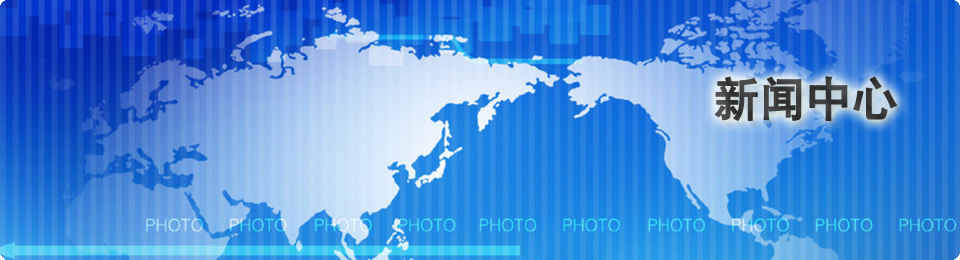
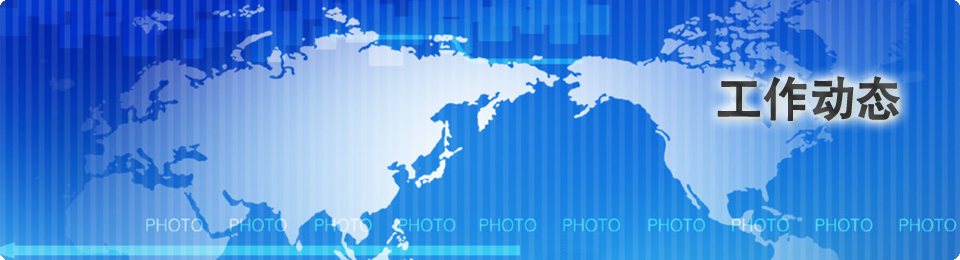
修改了页面
增加了图片

Changed region(s): [[0.7188, 0.2769, 0.9688, 0.4923]]

diff --git a/index.html b/index.html
@@ -29,7 +29,7 @@
 						<li class="line">|</li>
 			<li><a href="http://localhost/gyygs/index.php?m=content&c=index&a=lists&catid=6"><span>机构简介</span></a></li>
 						<li class="line">|</li>
-			<li><a href="http://localhost/gyygs/index.php?m=content&c=index&a=lists&catid=7"><span>新闻中心</span></a></li>
+			<li><a href="http://localhost/gyygs/index.php?m=content&c=index&a=lists&catid=7"><span>工作动态</span></a></li>
 						<li class="line">|</li>
 			<li><a href="http://localhost/gyygs/index.php?m=content&c=index&a=lists&catid=9"><span>服务平台</span></a></li>
 						<li class="line">|</li>
@@ -39,7 +39,7 @@
 						<li class="line">|</li>
 			<li><a href="http://localhost/gyygs/index.php?m=content&c=index&a=lists&catid=12"><span>业务板块</span></a></li>
 						<li class="line">|</li>
-			<li><a href="http://localhost/gyygs/index.php?m=content&c=index&a=lists&catid=13"><span>招贤纳士</span></a></li>
+			<li><a href="http://localhost/gyygs/index.php?m=content&c=index&a=lists&catid=37"><span>政策文件</span></a></li>
 						<li class="line">|</li>
 			<li><a href="http://localhost/gyygs/index.php?m=content&c=index&a=lists&catid=14"><span>联系我们</span></a></li>
 			            </ul>
@@ -54,14 +54,14 @@
 	<div class="col-left">
     	<div class="news-hot">
         	<div class="content">
-        	        	                 <h4 class="blue"><a href="http://localhost/gyygs/index.php?m=content&c=index&a=show&catid=15&id=4" title="北航先进工业产业研究院有限">北航先进工业产业研究院有</a></h4>
-                <p><img src="http://localhost/gyygs/uploadfile/2013/0421/thumb_90_60_20130421114608683.jpg" width="90" height="60"/>北航先进工业产业研究院有限公司独立运行北航先进工业产业研究院有限公司独...</p>
+        	        	                 <h4 class="blue"><a href="http://localhost/gyygs/index.php?m=content&c=index&a=show&catid=7&id=11" title="北京北航工作动态工作动态">北京北航工作动态工作动态</a></h4>
+                <p><img src="http://localhost/gyygs/uploadfile/2013/0503/thumb_90_60_20130503114903243.jpg" width="90" height="60"/>工作动态工作动态工作动态工作动态工作动态工作动态工作动态工作动态工作动态工作动态工作动态工作动态工作动态...</p>
                 <div class="bk20 hr"><hr /></div>
-                               <h4 class="blue"><a href="http://localhost/gyygs/index.php?m=content&c=index&a=show&catid=15&id=3" title="北航先进工业产业研究院有限公司独">北航先进工业产业研究院有</a></h4>
-                <p>北航先进工业产业研究院有限公司独立运行北航先进工业产业研究院有限公司独...</p>
+                               <h4 class="blue"><a href="" title="北航先进工业产业研究院有限">北航先进工业产业研究院有</a></h4>
+                <p>北航先进工业产业研究院有限公司独立运行北航先进工业产业研...</p>
                 <div class="bk20 hr"><hr /></div>
-                               <h4 class="blue"><a href="http://localhost/gyygs/index.php?m=content&c=index&a=show&catid=16&id=2" title="北航先进工业产业研究院有限公司独立运行">北航先进工业产业研究院有</a></h4>
-                <p>北航先进工业产业研究院有限公司独立运行</p>
+                               <h4 class="blue"><a href="" title="北航先进工业产业研究院有限公司独">北航先进工业产业研究院有</a></h4>
+                <p>北航先进工业产业研究院有限公司独立运行北航先进工业产业研...</p>
                 <div class="bk20 hr"><hr /></div>
                  
                 
@@ -71,63 +71,39 @@
             <div class="FocusPic">
                         	<div class="content" id="main-slide">
                     <div class="changeDiv">  
-                                            <a href="http://localhost/gyygs/index.php?m=content&c=index&a=show&catid=15&id=4" title="北航先进工业产业..."><img src="http://localhost/gyygs/uploadfile/2013/0421/20130421114608683.jpg" alt="北航先进工业产业研究院有限" width="310" height="260" /></a>
-                                            <a href="http://localhost/gyygs/index.php?m=content&c=index&a=show&catid=15&id=3" title="北航先进工业产业..."><img src="http://localhost/gyygs/uploadfile/2013/0421/thumb_310_260_20130421114538703.jpg" alt="北航先进工业产业研究院有限公司独" width="310" height="260" /></a>
-                                            <a href="http://localhost/gyygs/index.php?m=content&c=index&a=show&catid=16&id=2" title="北航先进工业产业..."><img src="http://localhost/gyygs/uploadfile/2013/0421/thumb_310_260_20130421110020639.jpg" alt="北航先进工业产业研究院有限公司独立运行" width="310" height="260" /></a>
-                                            <a href="http://localhost/gyygs/index.php?m=content&c=index&a=show&catid=15&id=1" title="北汽与北航开展通..."><img src="http://localhost/gyygs/uploadfile/2013/0421/thumb_310_260_20130421105821844.jpg" alt="北汽与北航开展通航领域合作" width="310" height="260" /></a>
+                                            <a href="http://localhost/gyygs/index.php?m=content&c=index&a=show&catid=7&id=11" title="北京北航工作动态..."><img src="http://localhost/gyygs/uploadfile/2013/0503/thumb_310_260_20130503114903243.jpg" alt="北京北航工作动态工作动态" width="310" height="260" /></a>
+                                            <a href="" title="北航先进工业产业..."><img src="http://localhost/gyygs/uploadfile/2013/0421/20130421114608683.jpg" alt="北航先进工业产业研究院有限" width="310" height="260" /></a>
+                                            <a href="" title="北航先进工业产业..."><img src="http://localhost/gyygs/uploadfile/2013/0421/thumb_310_260_20130421114538703.jpg" alt="北航先进工业产业研究院有限公司独" width="310" height="260" /></a>
+                                            <a href="" title="北航先进工业产业..."><img src="http://localhost/gyygs/uploadfile/2013/0421/thumb_310_260_20130421110020639.jpg" alt="北航先进工业产业研究院有限公司独立运行" width="310" height="260" /></a>
+                                            <a href="" title="北汽与北航开展通..."><img src="http://localhost/gyygs/uploadfile/2013/0421/thumb_310_260_20130421105821844.jpg" alt="北汽与北航开展通航领域合作" width="310" height="260" /></a>
                                         </div>
                 </div>
                         </div>
             <div class="bk10"></div>
         </div>
         <div class="box">
-        		<h5>公司介绍</h5>
+        		<h5>机构简介</h5>
             <div style="margin:10px;">
                 <span style="font-weight:bold;">公司简介：</span>
                     北京北航先进工业技术研究院有限公司成立于2010年11月，注册资本金5000万元，是北京航空航天大学委托北京北航资产经营有限公司独资设立的全资子公司。
                 <br><span style="font-weight:bold;">核心优势：</span>
                     北京北航先进工业技术研究院有限公司以北航为主体、企业化运作，与北航民口科技管理部门、北航国家大学科技园三位一体支撑北京北航先进工业技术研究院的建设运行。北京北航先进工业技术研究院有限公司是北京北航先进工业技术研究院建设运行的企业实体，集合了北京航空航天大学的人才、科技、成果资源和北航国家大学科技园产学研合作基地、密云产业化基地以及公共服务平台资源，用专职专业的服务团队、提供优势的管理服务。
             </div>
+            <div class="intro_list">
+                <div class="intro_pic">
+                    <img src="http://localhost/gyygs/statics/images/intro_pic.jpg" width="200" height="130"/>
+                </div>
+                <div class="intro_pic">
+                    <img src="http://localhost/gyygs/statics/images/intro_pic.jpg" width="200" height="130"/>
+                </div>
+                <div class="intro_pic">
+                    <img src="http://localhost/gyygs/statics/images/intro_pic.jpg" width="200" height="130"/>
+                </div>
+            </div>
         </div>
         <div class="bk10"></div>
 		
-		                <div class="box cat-area" style=" margin-right:10px">
-        		<h5 class="title-1">工作动态<a href="http://localhost/gyygs/index.php?m=content&c=index&a=lists&catid=15" class="more">更多>></a></h5>
-             <div class="content">
-                                       	<p>
-             		<img src="http://localhost/gyygs/uploadfile/2013/0421/thumb_90_0_20130421114608683.jpg" width="90" height="60"/>
-                    <strong><a href="http://localhost/gyygs/index.php?m=content&c=index&a=show&catid=15&id=4" target="_blank" title="北航先进工业产业研究院有限" style="" >北航先进工业产...</a></strong><br />北航先进工业产业研究院有限公司独立运行北航先进工业产业研究院有...                </p>
-                                            
-                <div class="bk15 hr"></div>
-                
-                <ul class="list lh24 f14">
-                                	<li><span class="rt">2013-04-21</span>·<a href="http://localhost/gyygs/index.php?m=content&c=index&a=show&catid=15&id=6" target="_blank" title="北航先进工业产业研究院有2" style="" >北航先进工业产业研究院有2</a></li>
-                                	<li><span class="rt">2013-04-21</span>·<a href="http://localhost/gyygs/index.php?m=content&c=index&a=show&catid=15&id=5" target="_blank" title="北航先进工业产业研究院有" style="" >北航先进工业产业研究院有</a></li>
-                                	<li><span class="rt">2013-04-21</span>·<a href="http://localhost/gyygs/index.php?m=content&c=index&a=show&catid=15&id=4" target="_blank" title="北航先进工业产业研究院有限" style="" >北航先进工业产业研究院有限</a></li>
-                                	<li><span class="rt">2013-04-21</span>·<a href="http://localhost/gyygs/index.php?m=content&c=index&a=show&catid=15&id=3" target="_blank" title="北航先进工业产业研究院有限公司独" style="" >北航先进工业产业研究院...</a></li>
-                                	<li><span class="rt">2013-04-21</span>·<a href="http://localhost/gyygs/index.php?m=content&c=index&a=show&catid=15&id=1" target="_blank" title="北汽与北航开展通航领域合作" style="" >北汽与北航开展通航领域合作</a></li>
-                                </ul>
-                            </div>
-        </div>
-        		                <div class="box cat-area" >
-        		<h5 class="title-1">行业资讯<a href="http://localhost/gyygs/index.php?m=content&c=index&a=lists&catid=16" class="more">更多>></a></h5>
-             <div class="content">
-                                       	<p>
-             		<img src="http://localhost/gyygs/uploadfile/2013/0421/thumb_90_0_20130421110020639.jpg" width="90" height="60"/>
-                    <strong><a href="http://localhost/gyygs/index.php?m=content&c=index&a=show&catid=16&id=2" target="_blank" title="北航先进工业产业研究院有限公司独立运行" style="" >北航先进工业产...</a></strong><br />北航先进工业产业研究院有限公司独立运行                </p>
-                                            
-                <div class="bk15 hr"></div>
-                
-                <ul class="list lh24 f14">
-                                	<li><span class="rt">2013-04-21</span>·<a href="http://localhost/gyygs/index.php?m=content&c=index&a=show&catid=16&id=10" target="_blank" title="北航先进工业产业研究院有" style="" >北航先进工业产业研究院有</a></li>
-                                	<li><span class="rt">2013-04-21</span>·<a href="http://localhost/gyygs/index.php?m=content&c=index&a=show&catid=16&id=9" target="_blank" title="北航先进工业产业研究院有" style="" >北航先进工业产业研究院有</a></li>
-                                	<li><span class="rt">2013-04-21</span>·<a href="http://localhost/gyygs/index.php?m=content&c=index&a=show&catid=16&id=8" target="_blank" title="北航先进工业产业研究院有" style="" >北航先进工业产业研究院有</a></li>
-                                	<li><span class="rt">2013-04-21</span>·<a href="http://localhost/gyygs/index.php?m=content&c=index&a=show&catid=16&id=7" target="_blank" title="北航先进工业产业研究院有" style="" >北航先进工业产业研究院有</a></li>
-                                	<li><span class="rt">2013-04-21</span>·<a href="http://localhost/gyygs/index.php?m=content&c=index&a=show&catid=16&id=2" target="_blank" title="北航先进工业产业研究院有限公司独立运行" style="" >北航先进工业产业研究院...</a></li>
-                                </ul>
-                            </div>
-        </div>
-        <div class="bk10"></div>				
+				
                 						        						        						        		        <div class="box cat-area" style=" margin-right:10px">
         		<h5 class="title-1">产学研合作</h5>
              <div class="content">
@@ -141,25 +117,25 @@
         		<h5 class="title-1">业务板块</h5>
              <div class="content">
             			<ul class="list lh24 f14">
-            			                                    ·<a href="http://localhost/gyygs/index.php?m=content&c=index&a=lists&catid=28">虚拟仿真事业部</a>&nbsp;&nbsp;&nbsp;
-							                                    ·<a href="http://localhost/gyygs/index.php?m=content&c=index&a=lists&catid=29">工业仪表事业部</a>&nbsp;&nbsp;&nbsp;
-				<br>			                                    ·<a href="http://localhost/gyygs/index.php?m=content&c=index&a=lists&catid=30">通用航空事业部</a>&nbsp;&nbsp;&nbsp;
-							                                    ·<a href="http://localhost/gyygs/index.php?m=content&c=index&a=lists&catid=31">适航认证事业部</a>&nbsp;&nbsp;&nbsp;
+            			                                    ·<a href="http://localhost/gyygs/index.php?m=content&c=index&a=lists&catid=29">工业仪表事业部</a>&nbsp;&nbsp;&nbsp;
+							                                    ·<a href="http://localhost/gyygs/index.php?m=content&c=index&a=lists&catid=28">虚拟仿真事业部</a>&nbsp;&nbsp;&nbsp;
 				<br>			                                    ·<a href="http://localhost/gyygs/index.php?m=content&c=index&a=lists&catid=32">飞行模拟器事业部</a>&nbsp;&nbsp;&nbsp;
+							                                    ·<a href="http://localhost/gyygs/index.php?m=content&c=index&a=lists&catid=31">适航认证事业部</a>&nbsp;&nbsp;&nbsp;
+				<br>			                                    ·<a href="http://localhost/gyygs/index.php?m=content&c=index&a=lists&catid=30">通用航空事业部</a>&nbsp;&nbsp;&nbsp;
 										</ul>
 			            </div>
         </div>
-        <div class="bk10"></div>		        						    </div>
+        <div class="bk10"></div>		        						        						    </div>
     <div class="col-auto">
     	<div class="box">
-        	 <h5 class="title-2">公告<a href="" class="more">&nbsp;</a></h5>
+        	 <h5 class="title-2">通知通告<a href="" class="more">&nbsp;</a></h5>
              <div class="content">
                                 <ul class="list lh24 f14">
+                                        <li><span class="rt">2013-05-03</span>.<a href="http://localhost/gyygs/index.php?m=announce&c=index&a=show&aid=6">测试公告1</a></li>
                                         <li><span class="rt">2013-04-21</span>.<a href="http://localhost/gyygs/index.php?m=announce&c=index&a=show&aid=5">测试公告5</a></li>
                                         <li><span class="rt">2013-04-21</span>.<a href="http://localhost/gyygs/index.php?m=announce&c=index&a=show&aid=4">测试公告4</a></li>
                                         <li><span class="rt">2013-04-21</span>.<a href="http://localhost/gyygs/index.php?m=announce&c=index&a=show&aid=3">测试公告3</a></li>
                                         <li><span class="rt">2013-04-21</span>.<a href="http://localhost/gyygs/index.php?m=announce&c=index&a=show&aid=2">测试公告2</a></li>
-                                        <li><span class="rt">2013-04-21</span>.<a href="http://localhost/gyygs/index.php?m=announce&c=index&a=show&aid=1">测试公告</a></li>
                                    </ul>
                             </div>
         </div>
@@ -168,11 +144,11 @@
         	<h5 class="title-2">科技资源</h5>
             <div class="content">
             							<div class="kejiziyuan">
-					<a href="http://localhost/gyygs/index.php?m=content&c=index&a=lists&catid=26">科技成果</a>
+					<a href="http://localhost/gyygs/index.php?m=content&c=index&a=lists&catid=35">科技成果</a>
 					<img src="http://localhost/gyygs/statics/images/sp1.jpg" width="100" height="40"/>
 				</div>
 							<div class="kejiziyuan">
-					<a href="http://localhost/gyygs/index.php?m=content&c=index&a=lists&catid=27">开放实验室</a>
+					<a href="http://localhost/gyygs/index.php?m=content&c=index&a=lists&catid=36">科技人才</a>
 					<img src="http://localhost/gyygs/statics/images/sp1.jpg" width="100" height="40"/>
 				</div>
 						            </div>
@@ -208,11 +184,6 @@
 				</div>
 						            </div>
         </div>
-        <div class="bk10"></div>
-		<div class="box height3" style="border:0px;padding-bottom:0px;">
-        	<img src="http://localhost/gyygs/statics/images/footpic.jpg" width="250" height="120"/>
-        </div>
-        <div class="bk10"></div>
     </div>
     <div class="bk10"></div>
 	

diff --git a/phpcms/templates/default/content/index.html b/phpcms/templates/default/content/index.html
@@ -7,7 +7,7 @@
         	{pc:content  action="position" posid="2" order="listorder DESC" num="3"}
         	 {loop $data $r}
                 <h4 class="blue"><a href="{$r[url]}" title="{$r[title]}">{str_cut($r[title],36,'')}</a></h4>
-                <p>{if $n==1}<img src="{thumb($r[thumb],90,60)}" width="90" height="60"/>{/if}{str_cut($r[description],112)}</p>
+                <p>{if $n==1}<img src="{thumb($r[thumb],90,60)}" width="90" height="60"/>{str_cut($r[description],300)}{/if}{if $n!=1}{str_cut($r[description],90)}{/if}</p>
                 <div class="bk20 hr"><hr /></div>
                {/loop}  
              {/pc}   
@@ -28,12 +28,23 @@
             <div class="bk10"></div>
         </div>
         <div class="box">
-        		<h5>公司介绍</h5>
+        		<h5>机构简介</h5>
             <div style="margin:10px;">
                 <span style="font-weight:bold;">公司简介：</span>
                     北京北航先进工业技术研究院有限公司成立于2010年11月，注册资本金5000万元，是北京航空航天大学委托北京北航资产经营有限公司独资设立的全资子公司。
                 <br><span style="font-weight:bold;">核心优势：</span>
                     北京北航先进工业技术研究院有限公司以北航为主体、企业化运作，与北航民口科技管理部门、北航国家大学科技园三位一体支撑北京北航先进工业技术研究院的建设运行。北京北航先进工业技术研究院有限公司是北京北航先进工业技术研究院建设运行的企业实体，集合了北京航空航天大学的人才、科技、成果资源和北航国家大学科技园产学研合作基地、密云产业化基地以及公共服务平台资源，用专职专业的服务团队、提供优势的管理服务。
+            </div>
+            <div class="intro_list">
+                <div class="intro_pic">
+                    <img src="{APP_PATH}statics/images/intro_pic.jpg" width="200" height="130"/>
+                </div>
+                <div class="intro_pic">
+                    <img src="{APP_PATH}statics/images/intro_pic.jpg" width="200" height="130"/>
+                </div>
+                <div class="intro_pic">
+                    <img src="{APP_PATH}statics/images/intro_pic.jpg" width="200" height="130"/>
+                </div>
             </div>
         </div>
         <div class="bk10"></div>
@@ -67,7 +78,7 @@
 		
         {loop subcat(0,0,0,$siteid) $r}
         {php $num++}
-		{if $r[catid]==7 or $r[catid]==9 or $r[catid]==10 or $r[catid]==17}
+		{if $r[catid]!=11 and $r[catid]!=12}
 		{php $num--}
 		{php continue}
 		{/if}
@@ -91,7 +102,7 @@
     </div>
     <div class="col-auto">
     	<div class="box">
-        	 <h5 class="title-2">公告<a href="" class="more">&nbsp;</a></h5>
+        	 <h5 class="title-2">通知通告<a href="" class="more">&nbsp;</a></h5>
              <div class="content">
                 {pc:announce  action="lists" siteid="$siteid" num="5"}
                 <ul class="list lh24 f14">
@@ -132,11 +143,6 @@
 			{/pc}
             </div>
         </div>
-        <div class="bk10"></div>
-		<div class="box height3" style="border:0px;padding-bottom:0px;">
-        	<img src="{APP_PATH}statics/images/footpic.jpg" width="250" height="120"/>
-        </div>
-        <div class="bk10"></div>
     </div>
     <div class="bk10"></div>
 	

diff --git a/phpcms/templates/default/content/category_page.html b/phpcms/templates/default/content/category_page.html
@@ -10,7 +10,7 @@
 #content{width:920px; min-height:400px; margin:auto; padding:14px 0 0 0}
 .left-nav{width:210px; height:399px; padding-top:10px}
 .left-nav h1,.left-nav .content li,.left-nav .content li.cur a,.left-nav .bottom{background: url({IMG_PATH}v9/about_left.png) no-repeat right top}
-.left-nav h1{display:block; height:40px; overflow:hidden; font-size:20px;padding-left:58px;}
+.left-nav h1{display:block; height:40px; overflow:hidden; font-size:20px;padding-left:20px;}
 .left-nav .content{background: url({IMG_PATH}v9/about_left_bg.png) repeat-y right top; padding-left:44px}
 .left-nav .content li{background-position: right -102px; display:block; height:30px; line-height:30px; font-size:14px}
 .left-nav .content li a{display:block; height:25px; line-height:25px; padding-left:14px; color:#6f6f6f}
@@ -30,7 +30,7 @@
 	<div class="col-left left-nav">
     	<h1>{$catname}</h1>
     	<ul class="content">
-		{pc:content action="category" catid="$catid" num="15" siteid="$siteid" order="listorder ASC"}
+		{pc:content action="category" catid="$catid" num="15" siteid="$siteid" order="listorder DESC"}
         	{loop $data $cid}
                 <li{if $fid==0} 
 				{php $fid=$cid[catid]}

diff --git a/phpcms/templates/default/content/page.html b/phpcms/templates/default/content/page.html
@@ -10,7 +10,7 @@
 #content{width:920px; min-height:400px;margin:auto; padding:14px 0 0 0}
 .left-nav{width:210px; height:399px; padding-top:10px}
 .left-nav h1,.left-nav .content li,.left-nav .content li.cur a,.left-nav .bottom{background: url({IMG_PATH}v9/about_left.png) no-repeat right top}
-.left-nav h1{display:block; height:40px; overflow:hidden; font-size:20px;padding-left:58px;}
+.left-nav h1{display:block; height:40px; overflow:hidden; font-size:20px;padding-left:20px;}
 .left-nav .content{background: url({IMG_PATH}v9/about_left_bg.png) repeat-y right top; padding-left:44px}
 .left-nav .content li{background-position: right -102px; display:block; height:30px; line-height:30px; font-size:14px}
 .left-nav .content li a{display:block; height:25px; line-height:25px; padding-left:14px; color:#6f6f6f}

diff --git a/statics/css/default_blue.css b/statics/css/default_blue.css
@@ -68,9 +68,10 @@ body fieldset.blue legend{padding:3px 8px;font-weight:700;color:#347add; backgro
 .main .col-right{width:700px; margin-left:10px;float:left;}
 .news-hot{background: url(../images/v9/hot_bg.png) no-repeat;float:right; width:380px; margin-right:9px;}
 .main .col-left .col-left-min .col-right {overflow:hidden;_float:left;zoom:1}
-.slide{height:289px;padding:10px 10px 0 0;overflow:hidden;_float:right;zoom:1}
+.slide{height:290px;padding:10px 10px 0 0;overflow:hidden;_float:right;zoom:1}
 .category_banner{width:960px;height:260px;}
-
+.intro_list{height:138px;}
+.intro_pic{float:left;width:200px;height:130px; margin:0 0 0 22px;}
 
 /* 通用容器 */
 .box{border:1px solid #c3d4e7;zoom:1; overflow:auto; padding-bottom:10px}
